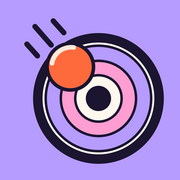
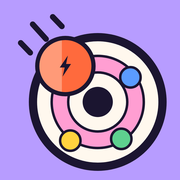
Nouvelle icône Marble Rush (cible, bille éclair, billes des copains), manifest et balises dans le head (v1.113)
Claude-Session: https://claude.ai/code/session_01ThHxAN5KVxkvRno77Ziw3t

diff --git a/index.html b/index.html
@@ -1,14 +1,17 @@
-<!doctype html><html><head><meta charset=utf8><meta name=viewport content="width=device-width,initial-scale=1,viewport-fit=cover"><style>:root{color-scheme:light;box-sizing:border-box;padding-top:env(safe-area-inset-top,0px);padding-bottom:env(safe-area-inset-bottom,0px)}html{scroll-padding-top:env(safe-area-inset-top,0px)}body{margin:0;padding:0;font:14px -apple-system,BlinkMacSystemFont,sans-serif;background:#fff;color:#000}img{max-width:100%}[hidden]:not([hidden=until-found i]){display:none!important}</style></head><body>
+<!doctype html><html><head><meta charset=utf8><meta name=viewport content="width=device-width,initial-scale=1,viewport-fit=cover"><style>:root{color-scheme:light;box-sizing:border-box;padding-top:env(safe-area-inset-top,0px);padding-bottom:env(safe-area-inset-bottom,0px)}html{scroll-padding-top:env(safe-area-inset-top,0px)}body{margin:0;padding:0;font:14px -apple-system,BlinkMacSystemFont,sans-serif;background:#fff;color:#000}img{max-width:100%}[hidden]:not([hidden=until-found i]){display:none!important}</style>
 <title>Marble Rush</title>
-<link rel="icon" type="image/png" href="favicon.png?v=2">
-<link rel="apple-touch-icon" href="apple-touch-icon.png?v=2">
-<link rel="apple-touch-icon" sizes="180x180" href="apple-touch-icon.png?v=2">
+<link rel="icon" type="image/png" sizes="64x64" href="favicon.png?v=3">
+<link rel="icon" type="image/png" sizes="32x32" href="favicon-32.png?v=3">
+<link rel="apple-touch-icon" href="apple-touch-icon.png?v=3">
+<link rel="apple-touch-icon" sizes="180x180" href="apple-touch-icon.png?v=3">
+<link rel="manifest" href="manifest.webmanifest?v=3">
 <meta name="apple-mobile-web-app-capable" content="yes">
 <meta name="mobile-web-app-capable" content="yes">
 <meta name="apple-mobile-web-app-title" content="Marble Rush">
 <meta name="theme-color" content="#B79CFF">
 <meta name="claude:viewport-fit-sides" content="cover">
 <link rel="stylesheet" href="https://fonts.googleapis.com/css2?family=Atkinson+Hyperlegible:wght@400;700&family=Bagel+Fat+One&display=swap">
+</head><body>
 <style>
 /* Plein écran : un canvas pour le plateau, des écrans de menu posés dessus.
    Tokens de la charte Marble Rush : thèmes clair, sombre et contraste élevé. */
@@ -497,8 +500,8 @@ canvas{position:absolute;inset:0;width:100%;height:100%;display:block;touch-acti
         <div class="howto" style="border:0;padding:0"><h4 style="margin:var(--space-3) 0 var(--space-2);font:400 1.25rem/1.2 var(--font-display)">Comment jouer</h4><div id="howto"></div></div>
         <dl class="about__list">
           <div><dt>Nom</dt><dd id="abName">Marble Rush</dd></div>
-          <div><dt>Version du jeu</dt><dd>1.111</dd></div>
-          <div><dt>Version de l'artefact</dt><dd>1793601757-66ed</dd></div>
+          <div><dt>Version du jeu</dt><dd>1.113</dd></div>
+          <div><dt>Version de l'artefact</dt><dd>1793602511-31c7</dd></div>
           <div><dt>Dernière modification</dt><dd>02/11/2026</dd></div>
           <div><dt>Créé par</dt><dd>Lucas Courcy</dd></div>
         </dl>
